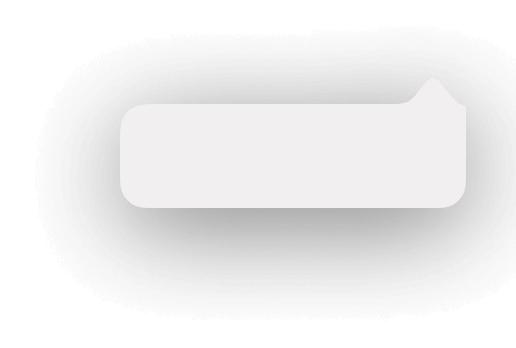
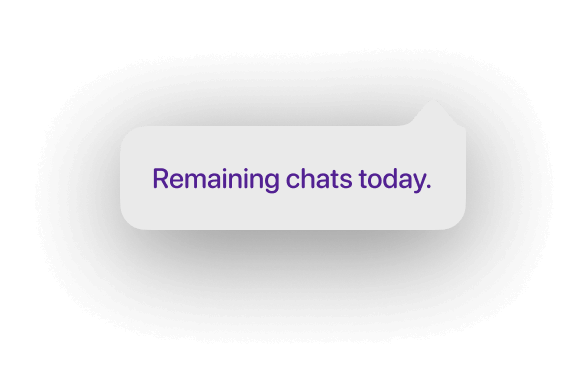
fix: chat num info

Changed region(s): [[0.2481, 0.2874, 0.9922, 0.6609], [0.2481, 0.431, 0.7442, 0.5172], [0.3101, 0.2874, 0.7132, 0.3448]]

diff --git a/src/components/popover/chatNum.tsx b/src/components/popover/chatNum.tsx
@@ -1,0 +1,45 @@
+/* eslint-disable @next/next/no-img-element */
+// import { useState } from "react";
+
+import { Popover, PopoverContent, PopoverTrigger } from ".";
+
+const PopoverChatNum = () => {
+  return (
+    <Popover>
+      <PopoverTrigger>
+        <svg
+          xmlns="http://www.w3.org/2000/svg"
+          width="16"
+          height="16"
+          viewBox="0 0 16 16"
+          fill="none"
+          className="chatNumRight"
+        >
+          <g clip-path="url(#clip0_2028_5852)">
+            <path
+              d="M6.05967 6C6.21641 5.55445 6.52578 5.17874 6.93298 4.93942C7.34018 4.70011 7.81894 4.61263 8.28446 4.69248C8.74998 4.77233 9.17222 5.01435 9.47639 5.37569C9.78057 5.73702 9.94705 6.19435 9.94634 6.66667C9.94634 8 7.94634 8.66667 7.94634 8.66667M7.99967 11.3333H8.00634M14.6663 8C14.6663 11.6819 11.6816 14.6667 7.99967 14.6667C4.31778 14.6667 1.33301 11.6819 1.33301 8C1.33301 4.3181 4.31778 1.33334 7.99967 1.33334C11.6816 1.33334 14.6663 4.3181 14.6663 8Z"
+              stroke="#FFF41A"
+              stroke-opacity="0.7"
+              stroke-width="1.5"
+              stroke-linecap="round"
+              stroke-linejoin="round"
+            />
+          </g>
+          <defs>
+            <clipPath id="clip0_2028_5852">
+              <rect width="16" height="16" fill="white" />
+            </clipPath>
+          </defs>
+        </svg>
+      </PopoverTrigger>
+      <PopoverContent>
+        <img
+          className="chatNumTipText"
+          src="/img/bg/tooltipChatInfo.min.png"
+          alt=""
+        />
+      </PopoverContent>
+    </Popover>
+  );
+};
+export default PopoverChatNum;

diff --git a/src/components/popover/index.tsx b/src/components/popover/index.tsx
@@ -1,0 +1,33 @@
+"use client"
+
+import * as React from "react"
+import * as PopoverPrimitive from "@radix-ui/react-popover"
+
+import { cn } from "@/lib/utils"
+
+const Popover = PopoverPrimitive.Root
+
+const PopoverTrigger = PopoverPrimitive.Trigger
+
+const PopoverAnchor = PopoverPrimitive.Anchor
+
+const PopoverContent = React.forwardRef<
+  React.ElementRef<typeof PopoverPrimitive.Content>,
+  React.ComponentPropsWithoutRef<typeof PopoverPrimitive.Content>
+>(({ className, align = "center", sideOffset = 4, ...props }, ref) => (
+  <PopoverPrimitive.Portal>
+    <PopoverPrimitive.Content
+      ref={ref}
+      align={align}
+      sideOffset={sideOffset}
+      className={cn(
+        "z-50 w-72 rounded-md bg-popover p-4 text-popover-foreground shadow-md outline-none data-[state=open]:animate-in data-[state=closed]:animate-out data-[state=closed]:fade-out-0 data-[state=open]:fade-in-0 data-[state=closed]:zoom-out-95 data-[state=open]:zoom-in-95 data-[side=bottom]:slide-in-from-top-2 data-[side=left]:slide-in-from-right-2 data-[side=right]:slide-in-from-left-2 data-[side=top]:slide-in-from-bottom-2 origin-[--radix-popover-content-transform-origin]",
+        className
+      )}
+      {...props}
+    />
+  </PopoverPrimitive.Portal>
+))
+PopoverContent.displayName = PopoverPrimitive.Content.displayName
+
+export { Popover, PopoverTrigger, PopoverContent, PopoverAnchor }

diff --git a/src/pages/chat.tsx b/src/pages/chat.tsx
@@ -13,8 +13,8 @@ import styles from "@/styles/Chat.module.css";
 import { cn } from "@/lib/utils";
 import LottieView from "@/components/lottie";
 import { useRouter } from "next/router";
-import TooltipChatNum from "@/components/tooltip/chatNum";
 import CountdownTimer from "@/components/countDownReset";
+import PopoverChatNum from "@/components/popover/chatNum";
 
 let timerHistory: NodeJS.Timeout | null | undefined = null;
 const ChatView = () => {
@@ -265,7 +265,7 @@ const ChatView = () => {
                       /20
                     </span>
                   </div>
-                  <TooltipChatNum></TooltipChatNum>
+                  <PopoverChatNum></PopoverChatNum>
                 </div>
               </div>
             </div>

diff --git a/src/styles/global.css b/src/styles/global.css
@@ -716,7 +716,7 @@ body {
   text-align: center;
   width: 420px;
   height: auto;
-  /* transform: translateY(-140px); */
+  transform: translate(7px, -38%);
   /* border: 1px solid red; */
 }
 .resetTimerView {
@@ -727,7 +727,7 @@ body {
     text-align: center;
     width: 820px;
     height: auto;
-    transform: translateY(-140px);
+    transform: translate(540px, -40%);
     /* padding: 40px; */
     /* box-shadow: 0px 10px 60px 0px rgba(0, 0, 0, 0.5); */
     /* backdrop-filter: blur(65px); */
